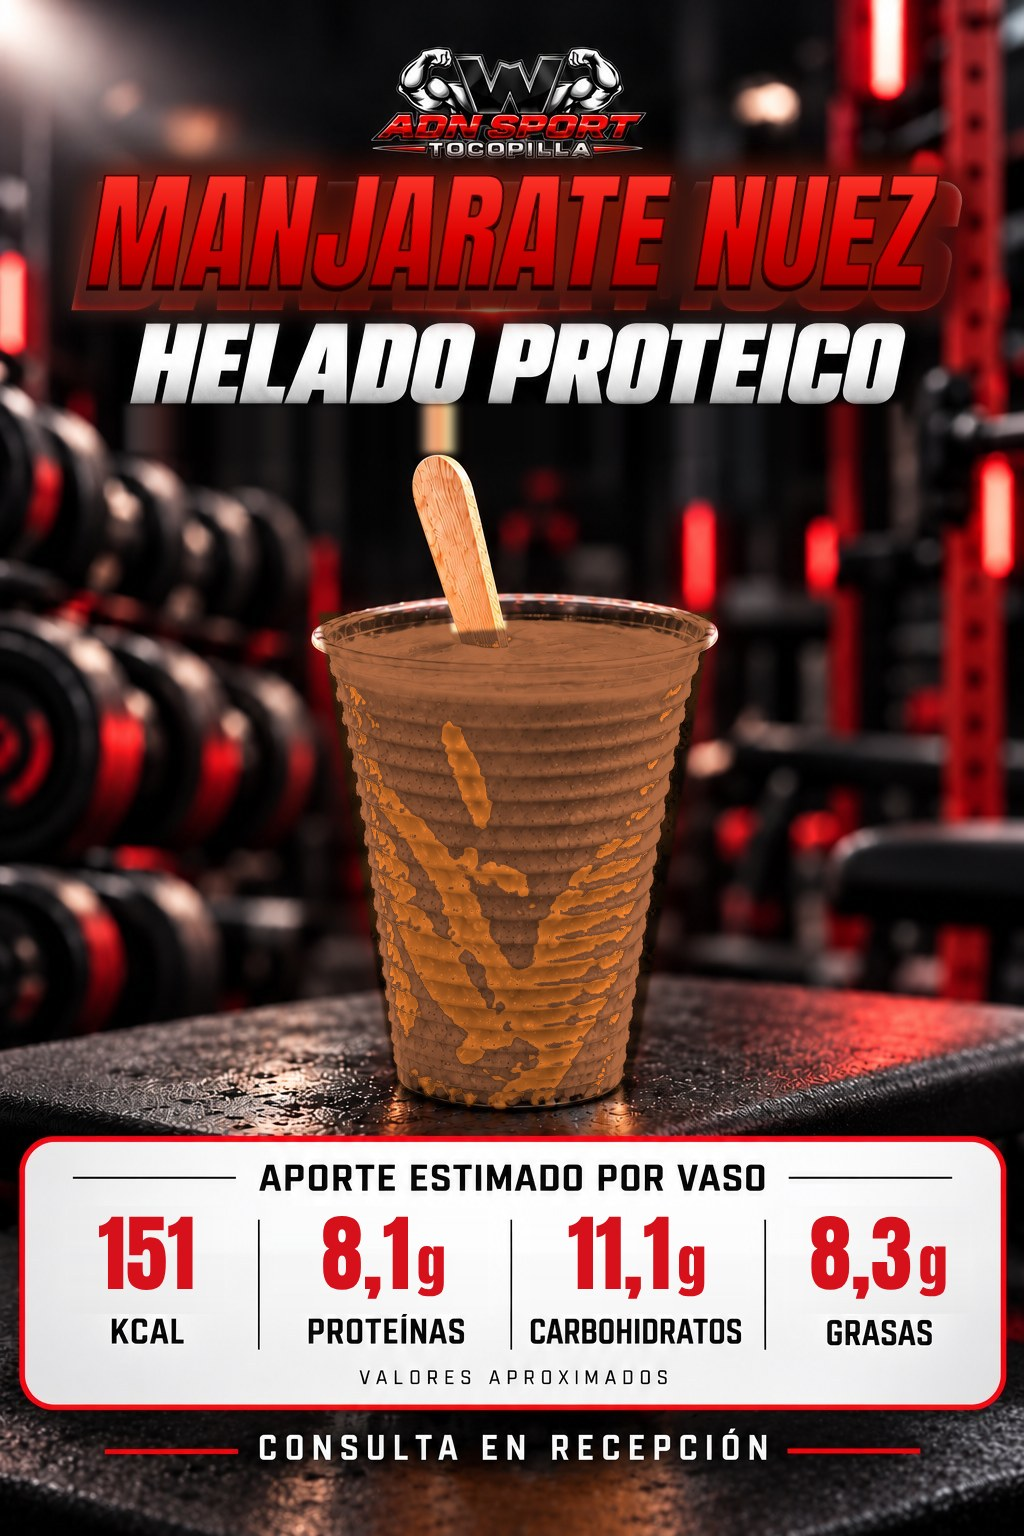
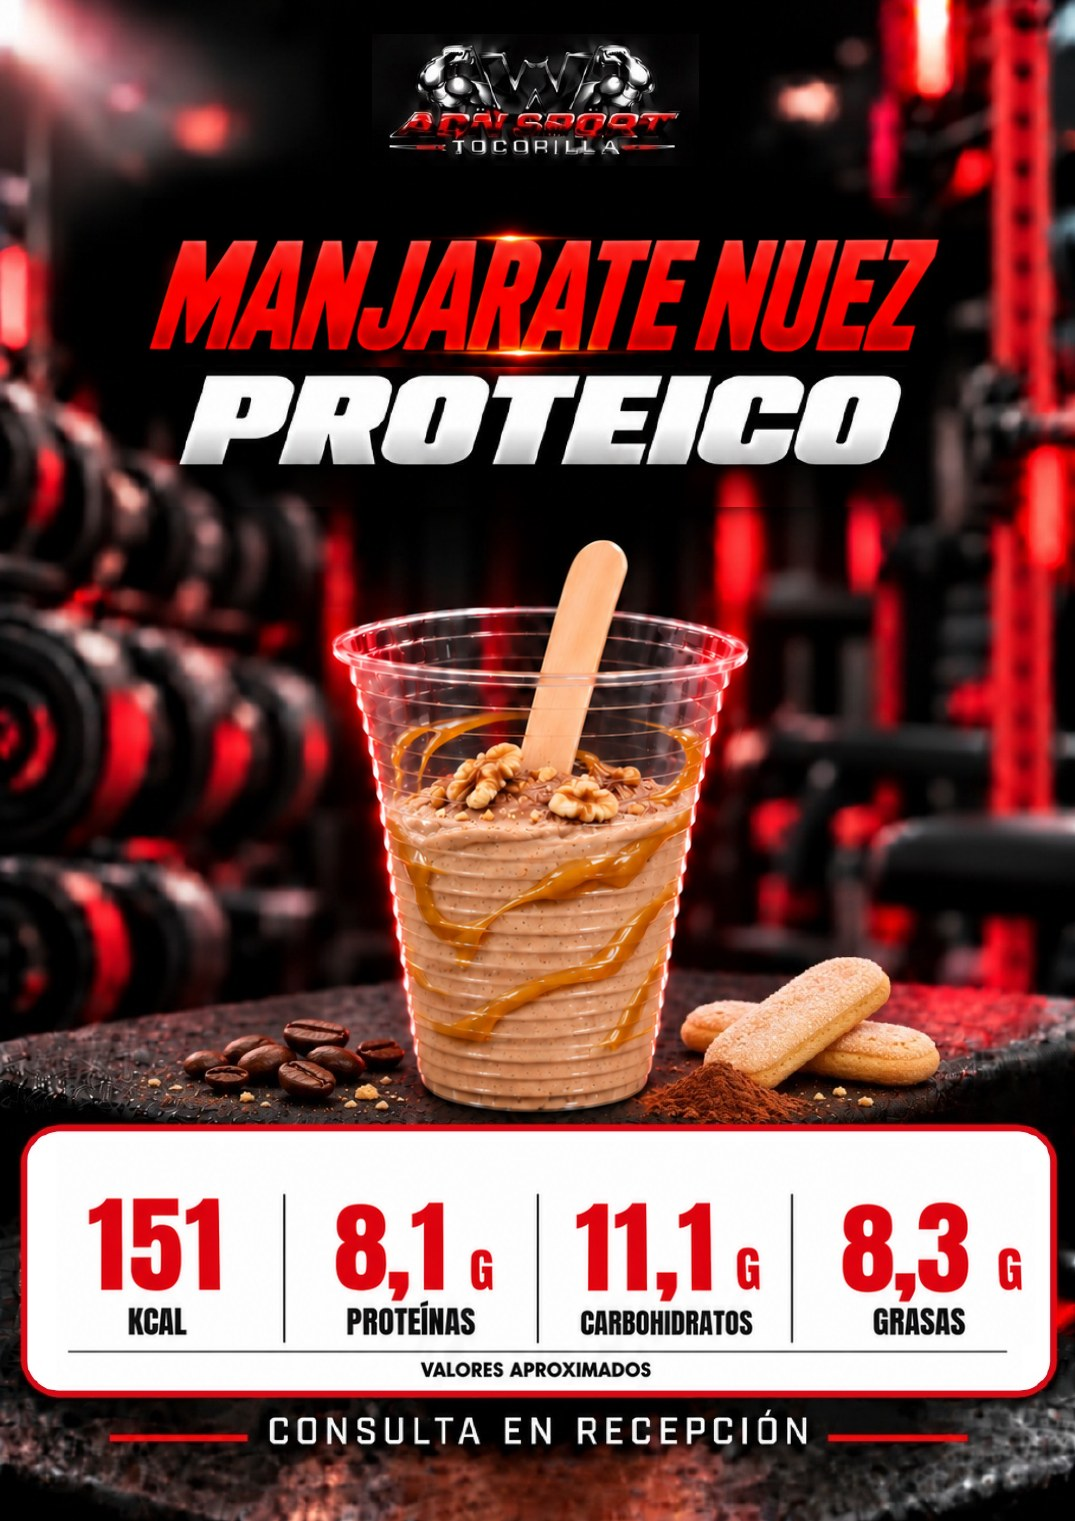
Tienda: afiche de la dueña para el Manjarate Nuez
Claude-Session: https://claude.ai/code/session_013ZgZPSRHEDhMsqmx8Km842

diff --git a/tienda.html b/tienda.html
@@ -353,7 +353,7 @@ function hoyISO(){ return new Intl.DateTimeFormat("en-CA", { timeZone:"America/S
 function ahoraTxt(){ var f = new Intl.DateTimeFormat("sv-SE", { timeZone:"America/Santiago", year:"numeric", month:"2-digit", day:"2-digit", hour:"2-digit", minute:"2-digit" }).format(new Date()); return f.replace("T", " ").slice(0, 16); }
 function normTxt(s){ return String(s || "").toUpperCase().normalize("NFD").replace(/[̀-ͯ]/g, ""); }
 /* Al cambiar una foto en img/tienda/ (mismo nombre), subir FOTO_V para que los teléfonos no muestren la antigua. */
-var FOTO_V = "64";
+var FOTO_V = "65";
 function fotoUrl(f){ return f ? (/^data:/.test(f) ? f : f + (f.indexOf("?") < 0 ? "?v=" + FOTO_V : "")) : ""; }
 /* 📷 Foto subida desde el celular (27-10-2026, la dueña: "¿no lo puedo hacer todo sin depender de ti?"): se achica a
    máx. 480 × 640, se le pone el logo del gimnasio arriba a la izquierda (34 % del ancho, como las demás fotos) y se guarda
@@ -694,7 +694,7 @@ setInterval(function(){ if(pend.length) enviarPendientes(); }, 30000);
   var on = document.documentElement.classList.toggle("rosa");
   try{ localStorage.setItem("wgym_tienda_tema_v2", on ? "rosa" : "oscuro"); }catch(e){}
   toast(on ? "🎨 Fondo rosita (solo en este equipo). Toca 🎨 de nuevo para volver al negro." : "🎨 Volviste al fondo negro.", 3500); }; })();
-var TIENDA_VERSION = "2026111501";
+var TIENDA_VERSION = "2026111502";
 setInterval(function(){ if(clave && !document.hidden && $("velo").hidden && !$("app").hidden) enviarPendientes().then(function(){ cargar(true); }); }, 30000);
 function revisarVersion(){
  fetch("tienda-version.txt?t=" + Date.now(), { cache:"no-store" }).then(function(r){ return r.ok ? r.text() : ""; }).then(function(v){

diff --git a/tarjeta.html b/tarjeta.html
@@ -2480,7 +2480,7 @@ function renderEvolucion(s){
     oculta con «Ya no lo vendo» no llega. «Lo quiero» abre una ventanita (foto grande, cantidad, total)
     y después WhatsApp a Sara con el pedido. El stock solo baja cuando ella cobra en la tienda.
     Al cambiar una foto de img/tienda/ con el mismo nombre, subir TIENDA_FOTO_V junto con FOTO_V de tienda.html. */
- var TIENDA_FOTO_V = "64", TIENDA_WSP = "56975196394", TIENDA_SITIO = "https://encaladasara363-lang.github.io/wgymadnsport-archivos/";
+ var TIENDA_FOTO_V = "65", TIENDA_WSP = "56975196394", TIENDA_SITIO = "https://encaladasara363-lang.github.io/wgymadnsport-archivos/";
  /* Interruptor (25-10-2026, la dueña: "no quiero publicar la tienda el lunes porque compré ropa en Shein y no sé
     cuándo me llegaría"): en false la tarjeta no muestra la tienda aunque la Versión 25 esté instalada.
     Ponerlo en true (y subir TARJETA_VERSION) solo cuando ella lo pida. */
@@ -2758,7 +2758,7 @@ function renderEvolucion(s){
     compara TARJETA_VERSION con tarjeta-version.txt del sitio y, si hay
     una más nueva, la página se recarga sola (el nombre ya aparece
     puesto). Al cambiar tarjeta.html, subir los DOS números juntos. */
- var TARJETA_VERSION = "2026111503", ultimaRevisionVersion = 0;
+ var TARJETA_VERSION = "2026111504", ultimaRevisionVersion = 0;
 function recargarFresco_(v){
  /* Recarga pidiendo la página nueva (11-10-2026): location.reload() podía traer la copia
     guardada del teléfono (GitHub guarda la página ~10 min) y el socio seguía con la versión

diff --git a/CLAUDE.md b/CLAUDE.md
@@ -1644,7 +1644,7 @@ productos» y «Tienda movimientos», acciones `tienda*` de `docs/apps-script/In
   tarjeta, `tiendaVitrina_` (Versión 25, `ultimaVentaTienda_`) manda `vendido:true` y la tarjeta muestra «VENDIDO» en vez
   de «AGOTADO»; pasados los 15 días la prenda ya no se envía.
 - **⛔ SIN STOCK (27-10-2026, la dueña: "cuando se acaba el producto tendría que salir sin stock para que mis socios sepan"):** en 📦 Inventario, todo producto (no ropa vendida, no batido que sale del tarro, no apartado) con stock 0 sale con la foto gris, sello rojo «SIN STOCK» y pastilla «⛔ SIN STOCK · repón con «Llegó mercadería»»; en la búsqueda de 🛒 Vender dice «⛔ SIN STOCK». En la vitrina de la tarjeta el sello dice «SIN STOCK» (antes «AGOTADO») con «Pronto vuelve». Vuelve solo al cargar mercadería.
-- **🍦 Categoría «Helados» (31-10-2026, la dueña mandó su catálogo de helados proteicos sin azúcar, endulzados con stevia y alulosa):** en `CATS` de `tienda.html`, `TIENDA_ICONOS` de `tarjeta.html` y `SIN_APARTAR` (no se apartan); la vitrina cerrada dice «🍦 Helados proteicos sin azúcar». 5 sabores con foto sacada de cada página del catálogo (ya traen el logo; no ponérselo encima): Manjarate (`img/tienda/helado-proteico-manjarate.jpg`, 125 g, 176 kcal · 11,9 P · 19,8 C · 5,8 G), Capuchino (110 g, 130 · 10 · 11 · 5), Tropical Coco (130 g, 143 · 9,8 · 14 · 5,3), Banana Choco Maní (130 g, 161 · 10,9 · 16,3 · 5,8; contiene maní) y Berry Cream (130 g, 126 · 9,9 · 12,3 · 3,9). Pistacho Dorado (01-11-2026, afiche aparte de la dueña; ya trae el logo: `img/tienda/helado-proteico-pistacho-dorado.jpg`; 125 g, 184 kcal · 12,5 P · 15,4 C · 8,0 G; costo $1.100, venta $2.000, 3 unidades; con proteína de vainilla; contiene leche y pistacho; el afiche no dice «sin azúcar», por eso no se puso). Pistacho Menta (02-11-2026, afiche de la dueña con el logo: `img/tienda/helado-proteico-pistacho-menta.jpg`; mismos macros que el Pistacho Dorado, 125 g, 184 kcal · 12,5 P · 15,4 C · 8,0 G; contiene leche y pistacho; 3 unidades; costo y precio como el Pistacho Dorado salvo que la dueña diga otro). Oreo proteico (02-11-2026, afiche de la dueña con el logo: `img/tienda/helado-proteico-oreo.jpg`; 130 g, 185 kcal · 12,6 P · 17,7 C · 7,1 G; con proteína de vainilla y 3 galletas tipo Oreo; contiene leche y trigo; 3 unidades; venta $1.500 como los otros). Coco Bombón proteico (02-11-2026, afiche de la dueña con el logo: `img/tienda/helado-proteico-coco-bombon.jpg`; 182 kcal · 10,0 P · 12,7 C · 10,4 G; coco, almendras y chocolate blanco; contiene leche y almendras; 3 unidades a $1.500). Moka White proteico (03-11-2026, afiche de la dueña con el logo: `img/tienda/helado-proteico-moka-white.jpg`; 154 kcal · 9,7 P · 14,3 C · 7,0 G; café y chocolate blanco; contiene leche; 3 unidades a $1.500). Avellana Manjar proteico (03-11-2026, afiche de la dueña con el logo: `img/tienda/helado-proteico-avellana-manjar.jpg`; 163 kcal · 10,0 P · 13,5 C · 7,8 G; avellanas y manjar; contiene leche y avellanas; 3 unidades a $1.500). Banana Split Nuez proteico (03-11-2026, afiche de la dueña con el logo: `img/tienda/helado-proteico-banana-split-nuez.jpg`; 137 kcal · 8,2 P · 12,3 C · 5,8 G; plátano, nueces y chocolate; contiene leche y nueces; 4 unidades a $1.500; en `TIENDA_MACROS` va antes de la regla de «banana» para no confundirse con Banana Choco Maní). Coco Vainilla proteico (04-11-2026, afiche de la dueña con el logo: `img/tienda/helado-proteico-coco-vainilla.jpg`; 140 kcal · 9,8 P · 9,4 C · 6,7 G; coco y vainilla; contiene leche; 3 unidades a $1.500; en `TIENDA_MACROS` va antes de la regla de «coco» para no confundirse con Coco Bombón). Alfajor Crunch proteico (04-11-2026, afiche de la dueña con el logo: `img/tienda/helado-proteico-alfajor-crunch.jpg`; 164 kcal · 9,4 P · 18,3 C · 6,4 G; galleta, manjar y chocolate; contiene leche, trigo y soya; 3 unidades a $1.500). Mango Chía proteico (05-11-2026, afiche de la dueña con el logo: `img/tienda/helado-proteico-mango-chia.jpg`; 111 kcal · 7,8 P · 10,7 C · 3,9 G; mango y chía; contiene leche; 5 unidades a $1.500). Selva Negra proteico (05-11-2026, afiche de la dueña con el logo: `img/tienda/helado-proteico-selva-negra.jpg`; 112 kcal · 8,6 P · 10,5 C · 3,9 G; cereza y cacao; contiene leche; 3 unidades a $1.500). Menta Chips proteico (05-11-2026, afiche de la dueña con el logo: `img/tienda/helado-proteico-menta-chips.jpg`; 140 kcal · 9,7 P · 10,6 C · 6,2 G; menta y chips de chocolate; contiene leche; 4 unidades a $1.500). Brownie Choco proteico (05-11-2026, afiche de la dueña con el logo: `img/tienda/helado-proteico-brownie-choco.jpg`; 165 kcal · 9,5 P · 14,8 C · 7,9 G; brownie y chocolate; contiene leche, trigo y huevo; 3 unidades a $1.500). Maní Bombón proteico (10-11-2026, afiche de la dueña con el logo: `img/tienda/helado-proteico-mani-bombon.jpg`; 175 kcal · 10,9 P · 11,6 C · 9,6 G; maní y chocolate; contiene leche y maní; $1.500). Sueño de Avellana proteico (13-11-2026, afiche de la dueña «Sueño de Nutella» con el logo: `img/tienda/helado-proteico-sueno-avellana.jpg`; en la tienda sin la marca Nutella en el nombre; 137 kcal · 9,4 P · 12,4 C · 5,8 G; hecho con crema En Línea; contiene leche y avellanas; 4 unidades a $1.500). Manjar Café Crunch proteico (13-11-2026, afiche de la dueña con el logo: `img/tienda/helado-proteico-manjar-cafe-crunch.jpg`; 155 kcal · 10,0 P · 15,9 C · 5,9 G; manjar, café y maní; contiene leche y maní; 5 unidades a $1.500). Tiramisú proteico (14-11-2026, afiche de la dueña con el logo: `img/tienda/helado-proteico-tiramisu.jpg`; 143 kcal · 9,7 P · 14,5 C · 4,9 G; café, cacao y bizcocho; contiene leche, trigo y soya; 5 unidades a $1.500). Banana Muss proteico (15-11-2026, afiche de la dueña con el logo: `img/tienda/helado-proteico-banana-muss.jpg`; 201 kcal · 12,2 P · 17,9 C · 7,4 G; plátano; contiene leche y maní; 6 unidades a $1.500; la dueña pidió borrar «con trozos de maní» del afiche (tapado con el fondo); en `TIENDA_MACROS` va antes de «banana split» y de «banana»). Manjarate Nuez proteico (15-11-2026, receta y afiche hechos por Claude a pedido de la dueña: su base + 40 g de manjar con alulosa, 10 g de cacao y 20 g de nueces tostadas; afiche armado sobre el del Banana Muss con el helado recoloreado a chocolate: `img/tienda/helado-proteico-manjarate-nuez.jpg`; 151 kcal · 8,1 P · 11,1 C · 8,3 G estimados; contiene leche y nueces; $1.500; en `TIENDA_MACROS` va antes de «manjarate»). **Todos los vasos son de 100 ml (02-11-2026, la dueña): en `TIENDA_MACROS` el campo `por` dice «100 ml» en todos los sabores (los gramos de los afiches eran el peso de la porción).** Los nombres de producto empiezan con «Helado proteico …» porque `TIENDA_MACROS` de la tarjeta los reconoce así (campo `por` = porción del vaso). Precio de venta $1.500 cada uno (la dueña, 31-10-2026); costo y stock por confirmar. **Un solo código para todos los sabores (31-10-2026, pedido de la dueña):** `CODIGOS_GRUPO` en `tienda.html` (`"2001500000000": "Helados"`); al escanearlo en 🛒 Vender (normal o «Escanear varias») se abre «🍦 ¿Qué sabor?» (`elegirDelGrupo`) con la foto y el stock de cada helado, y se suma el elegido (con «varias», la cámara vuelve a abrirse). No se guarda como código de ningún producto. Etiqueta impresa para el refrigerador: 2 por hoja chica de 5 × 7 cm (logo, «HELADOS · PROTEICOS SIN AZÚCAR», código, «TODOS LOS SABORES $1.500»), probada con ZXing.
+- **🍦 Categoría «Helados» (31-10-2026, la dueña mandó su catálogo de helados proteicos sin azúcar, endulzados con stevia y alulosa):** en `CATS` de `tienda.html`, `TIENDA_ICONOS` de `tarjeta.html` y `SIN_APARTAR` (no se apartan); la vitrina cerrada dice «🍦 Helados proteicos sin azúcar». 5 sabores con foto sacada de cada página del catálogo (ya traen el logo; no ponérselo encima): Manjarate (`img/tienda/helado-proteico-manjarate.jpg`, 125 g, 176 kcal · 11,9 P · 19,8 C · 5,8 G), Capuchino (110 g, 130 · 10 · 11 · 5), Tropical Coco (130 g, 143 · 9,8 · 14 · 5,3), Banana Choco Maní (130 g, 161 · 10,9 · 16,3 · 5,8; contiene maní) y Berry Cream (130 g, 126 · 9,9 · 12,3 · 3,9). Pistacho Dorado (01-11-2026, afiche aparte de la dueña; ya trae el logo: `img/tienda/helado-proteico-pistacho-dorado.jpg`; 125 g, 184 kcal · 12,5 P · 15,4 C · 8,0 G; costo $1.100, venta $2.000, 3 unidades; con proteína de vainilla; contiene leche y pistacho; el afiche no dice «sin azúcar», por eso no se puso). Pistacho Menta (02-11-2026, afiche de la dueña con el logo: `img/tienda/helado-proteico-pistacho-menta.jpg`; mismos macros que el Pistacho Dorado, 125 g, 184 kcal · 12,5 P · 15,4 C · 8,0 G; contiene leche y pistacho; 3 unidades; costo y precio como el Pistacho Dorado salvo que la dueña diga otro). Oreo proteico (02-11-2026, afiche de la dueña con el logo: `img/tienda/helado-proteico-oreo.jpg`; 130 g, 185 kcal · 12,6 P · 17,7 C · 7,1 G; con proteína de vainilla y 3 galletas tipo Oreo; contiene leche y trigo; 3 unidades; venta $1.500 como los otros). Coco Bombón proteico (02-11-2026, afiche de la dueña con el logo: `img/tienda/helado-proteico-coco-bombon.jpg`; 182 kcal · 10,0 P · 12,7 C · 10,4 G; coco, almendras y chocolate blanco; contiene leche y almendras; 3 unidades a $1.500). Moka White proteico (03-11-2026, afiche de la dueña con el logo: `img/tienda/helado-proteico-moka-white.jpg`; 154 kcal · 9,7 P · 14,3 C · 7,0 G; café y chocolate blanco; contiene leche; 3 unidades a $1.500). Avellana Manjar proteico (03-11-2026, afiche de la dueña con el logo: `img/tienda/helado-proteico-avellana-manjar.jpg`; 163 kcal · 10,0 P · 13,5 C · 7,8 G; avellanas y manjar; contiene leche y avellanas; 3 unidades a $1.500). Banana Split Nuez proteico (03-11-2026, afiche de la dueña con el logo: `img/tienda/helado-proteico-banana-split-nuez.jpg`; 137 kcal · 8,2 P · 12,3 C · 5,8 G; plátano, nueces y chocolate; contiene leche y nueces; 4 unidades a $1.500; en `TIENDA_MACROS` va antes de la regla de «banana» para no confundirse con Banana Choco Maní). Coco Vainilla proteico (04-11-2026, afiche de la dueña con el logo: `img/tienda/helado-proteico-coco-vainilla.jpg`; 140 kcal · 9,8 P · 9,4 C · 6,7 G; coco y vainilla; contiene leche; 3 unidades a $1.500; en `TIENDA_MACROS` va antes de la regla de «coco» para no confundirse con Coco Bombón). Alfajor Crunch proteico (04-11-2026, afiche de la dueña con el logo: `img/tienda/helado-proteico-alfajor-crunch.jpg`; 164 kcal · 9,4 P · 18,3 C · 6,4 G; galleta, manjar y chocolate; contiene leche, trigo y soya; 3 unidades a $1.500). Mango Chía proteico (05-11-2026, afiche de la dueña con el logo: `img/tienda/helado-proteico-mango-chia.jpg`; 111 kcal · 7,8 P · 10,7 C · 3,9 G; mango y chía; contiene leche; 5 unidades a $1.500). Selva Negra proteico (05-11-2026, afiche de la dueña con el logo: `img/tienda/helado-proteico-selva-negra.jpg`; 112 kcal · 8,6 P · 10,5 C · 3,9 G; cereza y cacao; contiene leche; 3 unidades a $1.500). Menta Chips proteico (05-11-2026, afiche de la dueña con el logo: `img/tienda/helado-proteico-menta-chips.jpg`; 140 kcal · 9,7 P · 10,6 C · 6,2 G; menta y chips de chocolate; contiene leche; 4 unidades a $1.500). Brownie Choco proteico (05-11-2026, afiche de la dueña con el logo: `img/tienda/helado-proteico-brownie-choco.jpg`; 165 kcal · 9,5 P · 14,8 C · 7,9 G; brownie y chocolate; contiene leche, trigo y huevo; 3 unidades a $1.500). Maní Bombón proteico (10-11-2026, afiche de la dueña con el logo: `img/tienda/helado-proteico-mani-bombon.jpg`; 175 kcal · 10,9 P · 11,6 C · 9,6 G; maní y chocolate; contiene leche y maní; $1.500). Sueño de Avellana proteico (13-11-2026, afiche de la dueña «Sueño de Nutella» con el logo: `img/tienda/helado-proteico-sueno-avellana.jpg`; en la tienda sin la marca Nutella en el nombre; 137 kcal · 9,4 P · 12,4 C · 5,8 G; hecho con crema En Línea; contiene leche y avellanas; 4 unidades a $1.500). Manjar Café Crunch proteico (13-11-2026, afiche de la dueña con el logo: `img/tienda/helado-proteico-manjar-cafe-crunch.jpg`; 155 kcal · 10,0 P · 15,9 C · 5,9 G; manjar, café y maní; contiene leche y maní; 5 unidades a $1.500). Tiramisú proteico (14-11-2026, afiche de la dueña con el logo: `img/tienda/helado-proteico-tiramisu.jpg`; 143 kcal · 9,7 P · 14,5 C · 4,9 G; café, cacao y bizcocho; contiene leche, trigo y soya; 5 unidades a $1.500). Banana Muss proteico (15-11-2026, afiche de la dueña con el logo: `img/tienda/helado-proteico-banana-muss.jpg`; 201 kcal · 12,2 P · 17,9 C · 7,4 G; plátano; contiene leche y maní; 6 unidades a $1.500; la dueña pidió borrar «con trozos de maní» del afiche (tapado con el fondo); en `TIENDA_MACROS` va antes de «banana split» y de «banana»). Manjarate Nuez proteico (15-11-2026, receta y afiche hechos por Claude a pedido de la dueña: su base + 40 g de manjar con alulosa, 10 g de cacao y 20 g de nueces tostadas; afiche de la dueña (reemplazó el armado por Claude el mismo día) con el logo: `img/tienda/helado-proteico-manjarate-nuez.jpg`; 151 kcal · 8,1 P · 11,1 C · 8,3 G estimados; contiene leche y nueces; $1.500; en `TIENDA_MACROS` va antes de «manjarate»). **Todos los vasos son de 100 ml (02-11-2026, la dueña): en `TIENDA_MACROS` el campo `por` dice «100 ml» en todos los sabores (los gramos de los afiches eran el peso de la porción).** Los nombres de producto empiezan con «Helado proteico …» porque `TIENDA_MACROS` de la tarjeta los reconoce así (campo `por` = porción del vaso). Precio de venta $1.500 cada uno (la dueña, 31-10-2026); costo y stock por confirmar. **Un solo código para todos los sabores (31-10-2026, pedido de la dueña):** `CODIGOS_GRUPO` en `tienda.html` (`"2001500000000": "Helados"`); al escanearlo en 🛒 Vender (normal o «Escanear varias») se abre «🍦 ¿Qué sabor?» (`elegirDelGrupo`) con la foto y el stock de cada helado, y se suma el elegido (con «varias», la cámara vuelve a abrirse). No se guarda como código de ningún producto. Etiqueta impresa para el refrigerador: 2 por hoja chica de 5 × 7 cm (logo, «HELADOS · PROTEICOS SIN AZÚCAR», código, «TODOS LOS SABORES $1.500»), probada con ZXing.
 - **🥤 Smoothie proteico Choco Banana Cream (05-11-2026, reemplaza al «Batido de proteína» de Clear Protein, que la dueña ya no vende):** Smoothies, vaso de 450 ml, $4.500; receta de la dueña: 200 ml de leche entera sin lactosa, 30 g de proteína Dragon Pharma Protein Phorm chocolate milkshake (carne + whey; tarro 2.268 g a $74.000 → ≈75 smoothies, ≈$979 por 30 g), 70 g de plátano congelado, 60 g de yogur natural sin azúcar, 60 g de hielo, 0,3 g de xantana y stevia opcional; costo ≈$1.580. Foto `img/tienda/smoothie-choco-banana-cream.jpg` (afiche: foto de ChatGPT + logo + cuadro con el tarro Protein Phorm (sin «carne + whey»: a la dueña le pareció feo), para que los socios sepan qué proteína toman, + «SMOOTHIE» grande en dorado con sombra roja (pedido de la dueña) y el sabor en Rubik Distressed blanco, los 4 macros en Anton, $4.500 y la franja roja grande «💪 CREATINA + $1.000 ADICIONAL» a todo el ancho, abajo (texto y tamaño pedidos por la dueña); armado con HTML y Playwright; cada sabor nuevo, igual). Macros en `TIENDA_MACROS` (`/^smoothie proteico choco banana/`): ≈340 kcal · 31 P · 33 C · 10 G, contiene leche. Lleva «💪 + Creatina $1.000» (`esBatido` en la tienda; en la tarjeta `conCrea` va solo para batidos, smoothies y el granizado: antes salía también en helados y waffle porque usaba `tvMacros_`). El ganador de masa ahora descuenta del tarro del smoothie (`USA_PORCION` base `/^(smoothie|batido de prote)/`; en la vitrina, primero el smoothie).
 - **💪 Un solo código «Por porción» (10-11-2026, la dueña: "un solo QR como los helados… smoothie, pre entreno, creatina"):** `CODIGOS_GRUPO` `"2009000000001": "Por porción"`; al escanearlo en 🛒 Vender se abre «💪 ¿Qué lleva?» con todo lo que cumple `esPorPorcion` (smoothies, pre entrenos y granizado y, desde el 10-11-2026 (la dueña: "todo lo que es suplementos"), toda la categoría Suplementos, también los tarros enteros como la beta alanina y la creatina de 500 g), ordenado smoothies → pre entrenos → creatinas → proteínas. **La dueña usa la etiqueta ya impresa del pre entreno Mr Hyde (la del Fruit Punch):** en `alEscanear`, escanear un producto «Pre entreno Mr Hyde…» abre esta misma lista (reemplaza el «¿Qué sabor?» de `FAMILIAS` para el Mr Hyde). **Bebestibles igual (10-11-2026, la dueña tiene impresa la etiqueta del agua):** escanear «Agua purificada WOL…» o «Recarga de agua…» abre «¿Qué bebestible?» con toda la categoría Bebestibles (el agua incluida). **Un código por sección (10-11-2026):** `CODIGOS_GRUPO` suma `"2008000000004": "Bebestibles"` y `"2007000000007": "Snacks"` («¿Qué snack?»). Hoja de etiquetas de 5 × 7 pulgadas con 6 de cada uno de los 4 códigos (POR PORCIÓN 2009000000001, BEBESTIBLES, SNACKS, HELADOS 2001500000000), leídas con ZXing. En la lista «¿Qué…?» el detalle de cada producto (tamaño, ej. «500 ml» / «1 litro») va grande en amarillo (`.gdet`; la dueña: "específico en grande si es de medio o un litro"). La lista va ordenada de menor a mayor tamaño (ml, litros, «litro y medio», gramos; sin tamaño al final) y luego por nombre (`tam`/`porTam` en `elegirDelGrupo`). Etiquetas de 24 por hoja de 5 × 7 pulgadas «SUPLEMENTOS · POR PORCIÓN», leídas con ZXing.
 - **🍹 Categoría «Smoothies» (05-11-2026, la dueña: "una sección de smoothies… unos 10 sabores", el primero el Choco Banana Cream):** en `CATS` de `tienda.html`, `TIENDA_ICONOS` de `tarjeta.html` y `SIN_APARTAR`; la vitrina cerrada dice «🍹 Smoothies proteicos». Todos los sabores salen de las porciones del producto «Tarro de proteína …» (Suplementos, stock = porciones de 30 g; `USA_PORCION` `/^smoothie/` → `/^tarro de prote/`); el tarro no se muestra a los socios (la tarjeta lo saca de la vitrina) y cada smoothie toma su stock. Los nombres empiezan con «Smoothie proteico …»; cada sabor lleva su línea en `TIENDA_MACROS`. Un solo código para todos: `CODIGOS_GRUPO` `"2004500000001": "Smoothies"` («🍹 ¿Qué sabor?» al escanear); etiquetas de 24 por hoja de 5 × 7 pulgadas con «SMOOTHIES $4.500», leídas con ZXing. El ganador de masa también sale del tarro (`/^(tarro de prote|batido de prote)/`).
